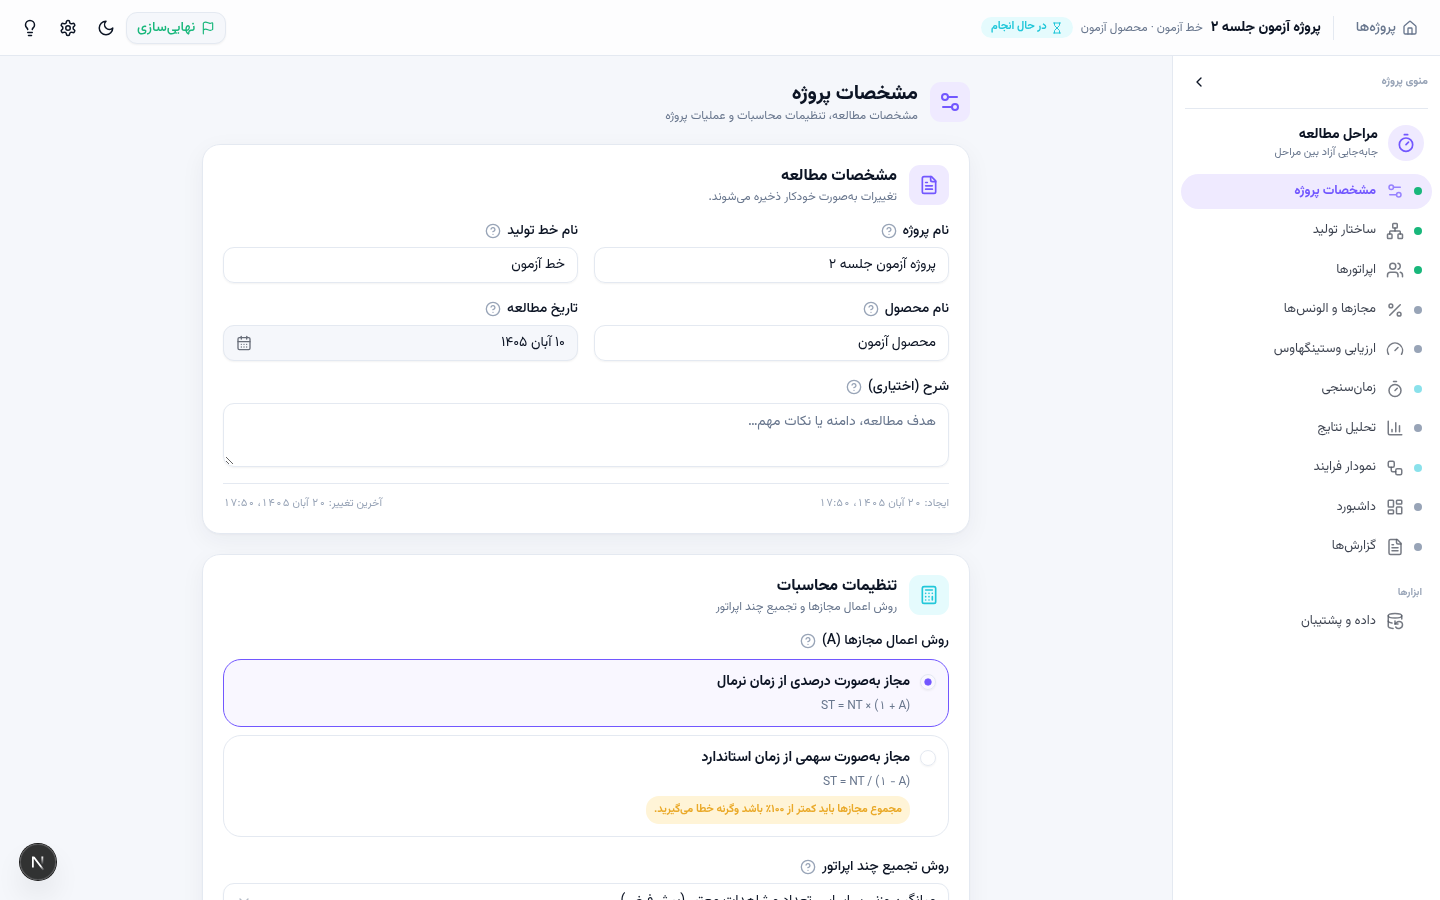
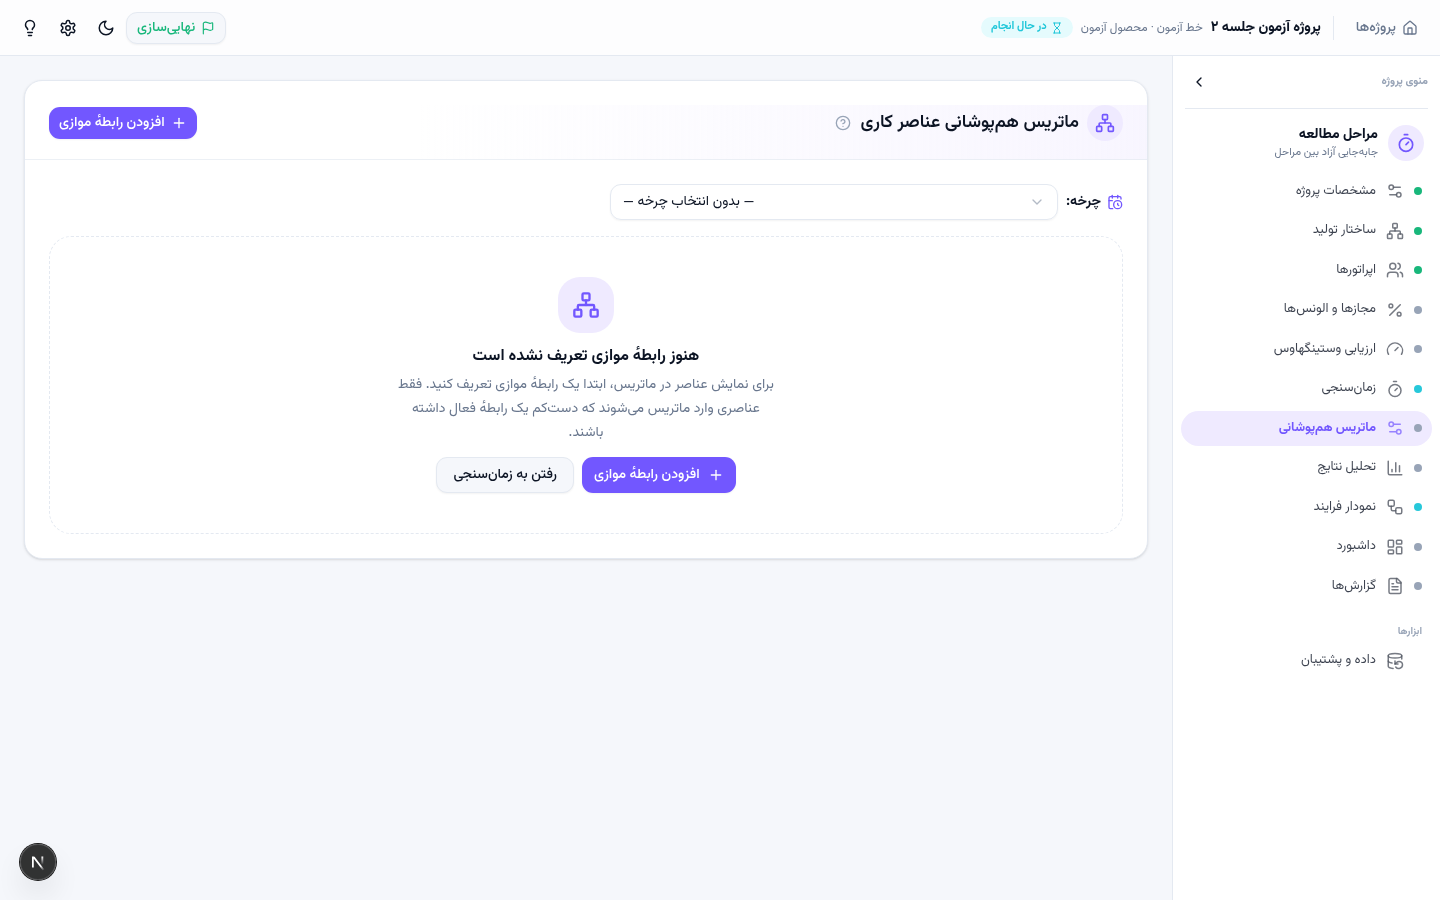
جلسه ۲ (۶/۸): تثبیت تعامل سلول ماتریس + راستیآزمایی مرورگر
- MatrixTable: ویرایشگر سلول از Popover کنترلشده به Dialog محلی تبدیل شد (در محیط اجرای
  فعلی Popover کنترلشدهٔ parent-state باز نمیشد؛ الگوی Dialog اثباتشده است)
- ElementParallelPopover: همان تبدیل برای پاپاور سربرگ ستون برگه
- راستیآزمایی واقعی مرورگر (agent-browser): مرحلهٔ ماتریس در سایدبار، EmptyState آموزشی،
  افزودن رابطه با جستوجو + تأییدیهٔ §۴.۴، عضویت پویا (فقط دو عنصر)، انتخاب چرخه با
  گروهبندی جلسه، ویرایش سلول (سه وضعیت + مقدار)، نوار draft با ماندگاری مقدار هنگام
  تغییر چرخه، ثبت موفق + toast + نمایش آینهای ۳٫۵۰ در هر دو سلول + بج «سازگار» —
  بدون هیچ خطای کنسول/صفحه

diff --git a/src/views/project/matrix/MatrixTable.tsx b/src/views/project/matrix/MatrixTable.tsx
@@ -1,7 +1,7 @@
 'use client'
 
 // جدول ماتریس دسکتاپ — هدر sticky + ستون اول sticky + چهار حالت سلول — §۱۱
-import { Popover, PopoverContent, PopoverTrigger } from '@/components/ui/popover'
+import { Dialog, DialogContent, DialogDescription, DialogHeader, DialogTitle, DialogTrigger } from '@/components/ui/dialog'
 import { Button } from '@/components/ui/button'
 import { Input } from '@/components/ui/input'
 import { Label } from '@/components/ui/label'
@@ -30,7 +30,6 @@ export default function MatrixTable({
   onDraft: (relationId: string, draft: CellDraft | null) => void
 }) {
   const prefs = useDisplayPrefs()
-  const [openCell, setOpenCell] = useState<string | null>(null)
   if (!matrix) return null
   const { members, relations, cells } = matrix
   const activeRelations = relations.filter((r) => r.isActive)
@@ -110,8 +109,6 @@ export default function MatrixTable({
                       relationId={relationId}
                       cell={cells[relationId] ?? null}
                       draft={drafts[relationId] ?? null}
-                      open={openCell === relationId}
-                      onOpenChange={(o) => setOpenCell(o ? relationId : null)}
                       onDraft={onDraft}
                       prefs={prefs}
                       rowName={row.name}
@@ -132,8 +129,6 @@ function MatrixCell({
   relationId,
   cell,
   draft,
-  open,
-  onOpenChange,
   onDraft,
   prefs,
   rowName,
@@ -142,21 +137,20 @@ function MatrixCell({
   relationId: string
   cell: OverlapMatrixDto['cells'][string] | null
   draft: CellDraft | null
-  open: boolean
-  onOpenChange: (open: boolean) => void
   onDraft: (relationId: string, draft: CellDraft | null) => void
   prefs: ReturnType<typeof useDisplayPrefs>
   rowName: string
   colName: string
 }) {
+  const [open, setOpen] = useState(false)
   const effective: CellDraft = draft ?? {
     status: cell?.status ?? 'UNREVIEWED',
     overlapDuration: cell?.overlapDuration ?? null,
   }
   const isDraft = draft != null
   return (
-    <Popover open={open} onOpenChange={onOpenChange}>
-      <PopoverTrigger asChild>
+    <Dialog open={open} onOpenChange={setOpen}>
+      <DialogTrigger asChild>
         <button
           type="button"
           className={cn(
@@ -167,12 +161,15 @@ function MatrixCell({
         >
           <CellContent status={effective.status} duration={effective.overlapDuration} prefs={prefs} />
         </button>
-      </PopoverTrigger>
-      <PopoverContent className="w-72" dir="rtl" align="center">
-        <div className="space-y-3">
-          <p className="text-xs text-muted-foreground">
+      </DialogTrigger>
+      <DialogContent className="max-w-sm" dir="rtl">
+        <DialogHeader className="space-y-0 text-right">
+          <DialogTitle className="text-right text-sm">ویرایش همپوشانی</DialogTitle>
+          <DialogDescription className="text-right text-xs">
             {rowName} ↔ {colName}
-          </p>
+          </DialogDescription>
+        </DialogHeader>
+        <div className="space-y-3">
           <RadioGroup
             value={effective.status}
             onValueChange={(v) =>
@@ -228,14 +225,14 @@ function MatrixCell({
             <Button variant="ghost" size="sm" onClick={() => onDraft(relationId, null)} disabled={!isDraft}>
               بازگردانی سلول
             </Button>
-            <Button size="sm" onClick={() => onOpenChange(false)} disabled={!isDraft}>
+            <Button size="sm" onClick={() => setOpen(false)} disabled={!isDraft}>
               <Pencil className="size-3.5" aria-hidden />
               نگهداری تغییر
             </Button>
           </div>
         </div>
-      </PopoverContent>
-    </Popover>
+      </DialogContent>
+    </Dialog>
   )
 }
 

diff --git a/src/views/project/matrix/ElementParallelPopover.tsx b/src/views/project/matrix/ElementParallelPopover.tsx
@@ -2,7 +2,7 @@
 
 // دکمهٔ سربرگ ستون برگهٔ زمانسنجی — باز کردن بخش روابط موازی عنصر با چرخههای همین جلسه — §۴.۱
 import { useState } from 'react'
-import { Popover, PopoverContent, PopoverTrigger } from '@/components/ui/popover'
+import { Dialog, DialogContent, DialogDescription, DialogHeader, DialogTitle, DialogTrigger } from '@/components/ui/dialog'
 import { Network } from 'lucide-react'
 import ParallelRelationsSection, { type CycleContextOption } from './ParallelRelationsSection'
 
@@ -21,8 +21,8 @@ export default function ElementParallelPopover({
 }) {
   const [open, setOpen] = useState(false)
   return (
-    <Popover open={open} onOpenChange={setOpen}>
-      <PopoverTrigger asChild>
+    <Dialog open={open} onOpenChange={setOpen}>
+      <DialogTrigger asChild>
         <button
           type="button"
           className="rounded-full bg-muted px-1.5 py-px text-[10px] font-bold text-muted-foreground transition-colors hover:bg-brand-soft hover:text-brand"
@@ -32,8 +32,14 @@ export default function ElementParallelPopover({
         >
           <Network className="inline size-3" aria-hidden />
         </button>
-      </PopoverTrigger>
-      <PopoverContent className="w-96" dir="rtl" align="start">
+      </DialogTrigger>
+      <DialogContent className="max-h-[85vh] max-w-lg overflow-y-auto sm:max-w-xl" dir="rtl">
+        <DialogHeader className="space-y-0 text-right">
+          <DialogTitle className="text-right text-sm">عناصر موازی و اطلاعات همپوشانی</DialogTitle>
+          <DialogDescription className="text-right text-xs">
+            عنصر «{elementName}» — مقادیر چرخههای همین جلسه
+          </DialogDescription>
+        </DialogHeader>
         {open && (
           <ParallelRelationsSection
             projectId={projectId}
@@ -44,7 +50,7 @@ export default function ElementParallelPopover({
             compact
           />
         )}
-      </PopoverContent>
-    </Popover>
+      </DialogContent>
+    </Dialog>
   )
 }
